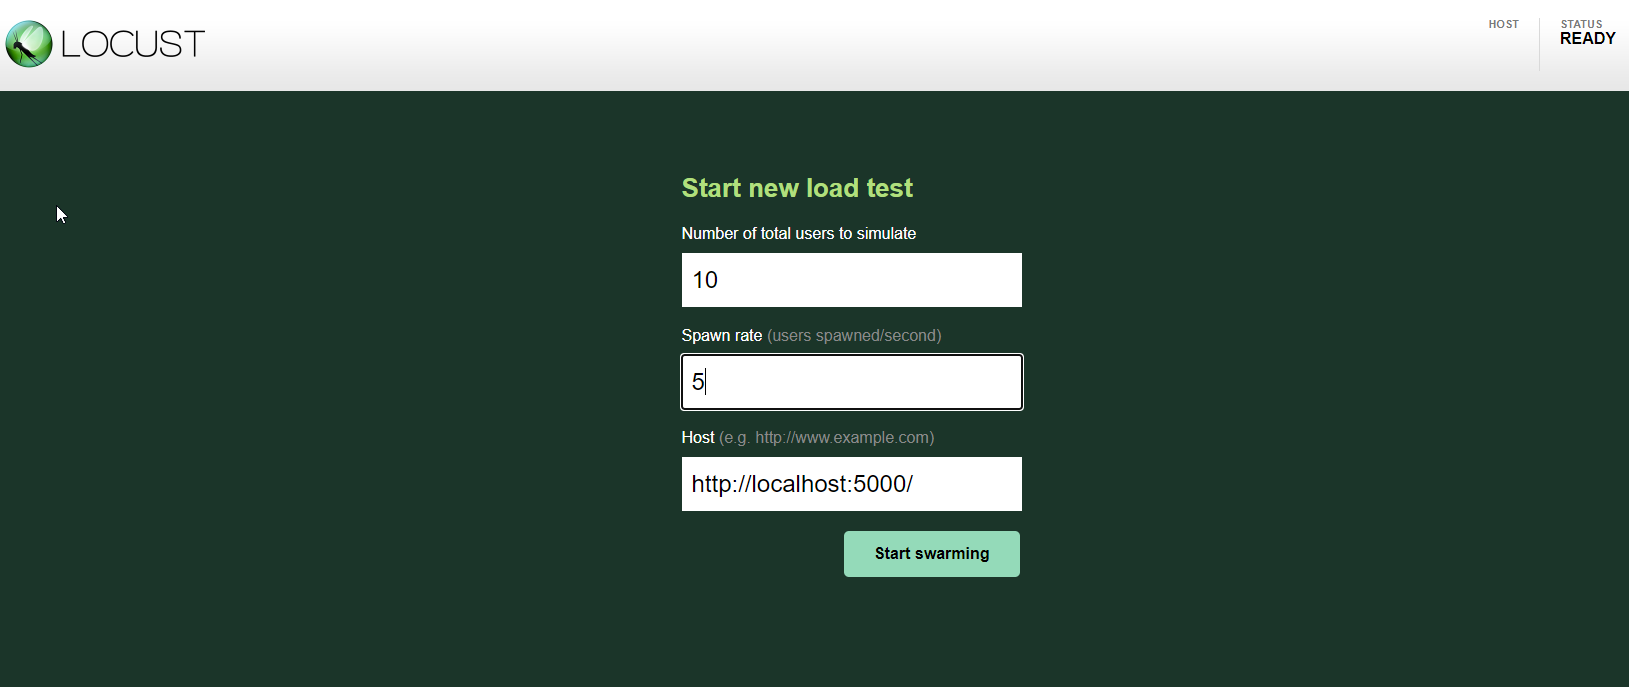
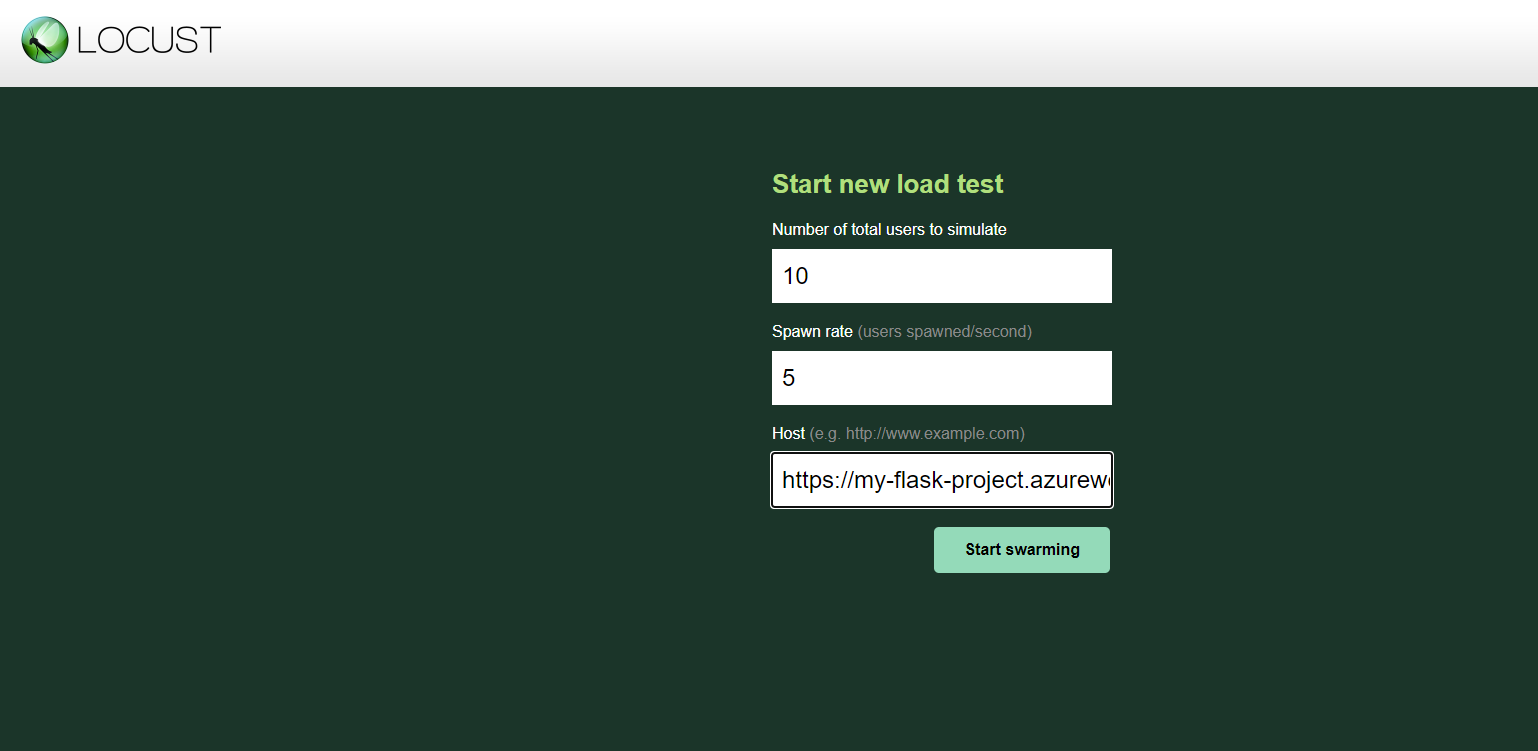
LocustPred

Changed region(s): [[0.4057, 0.214, 0.749, 0.8559], [0.0, 0.0, 1.0, 0.1528], [0.9051, 0.0306, 0.9987, 0.0611]]

diff --git a/locustfile.py b/locustfile.py
@@ -1,4 +1,8 @@
 from locust import HttpUser, TaskSet, task
+import json
+
+with open('data.json') as f:
+    data = json.loads(f.read())
 
 class CheckSite(HttpUser):
 
@@ -8,25 +12,7 @@ class CheckSite(HttpUser):
         
     @task
     def get_predict(self):
-        self.client.post("/predict",json={
-   "CHAS":{
-      "0":0
-   },
-   "RM":{
-      "0":6.575
-   },
-   "TAX":{
-      "0":296.0
-   },
-   "PTRATIO":{
-      "0":15.3
-   },
-   "B":{
-      "0":396.9
-   },
-   "LSTAT":{
-      "0":4.98
-   })
+        self.client.post("/predict",json= data)
 
 class Locusttest(HttpUser):
     task_set =CheckSite

diff --git a/README.md b/README.md
@@ -178,13 +178,15 @@ And finally, now you can make an estimate. To do this, go back to the repo's fol
 
 + Now you can open a browser and go to the [http://localhost:8089](http://localhost:8089/)
 
-+ Now you should see an input mask where you can enter the webpage as well as configurations for the stress test. 
++ Now you should see an input mask where you can enter the webpage as well as configurations for the stress test - I am going to check on Azure-Webapp:
 
   ![locust_config](locust_config.png)
 
 + Finally, you can see the stress test running 
 
   ![locust_test](locust_test.png)
+
++ Everything is up and running! Get the website as well as do a prediction ist working fine! 
 
 # Improvement Ideas 
 
